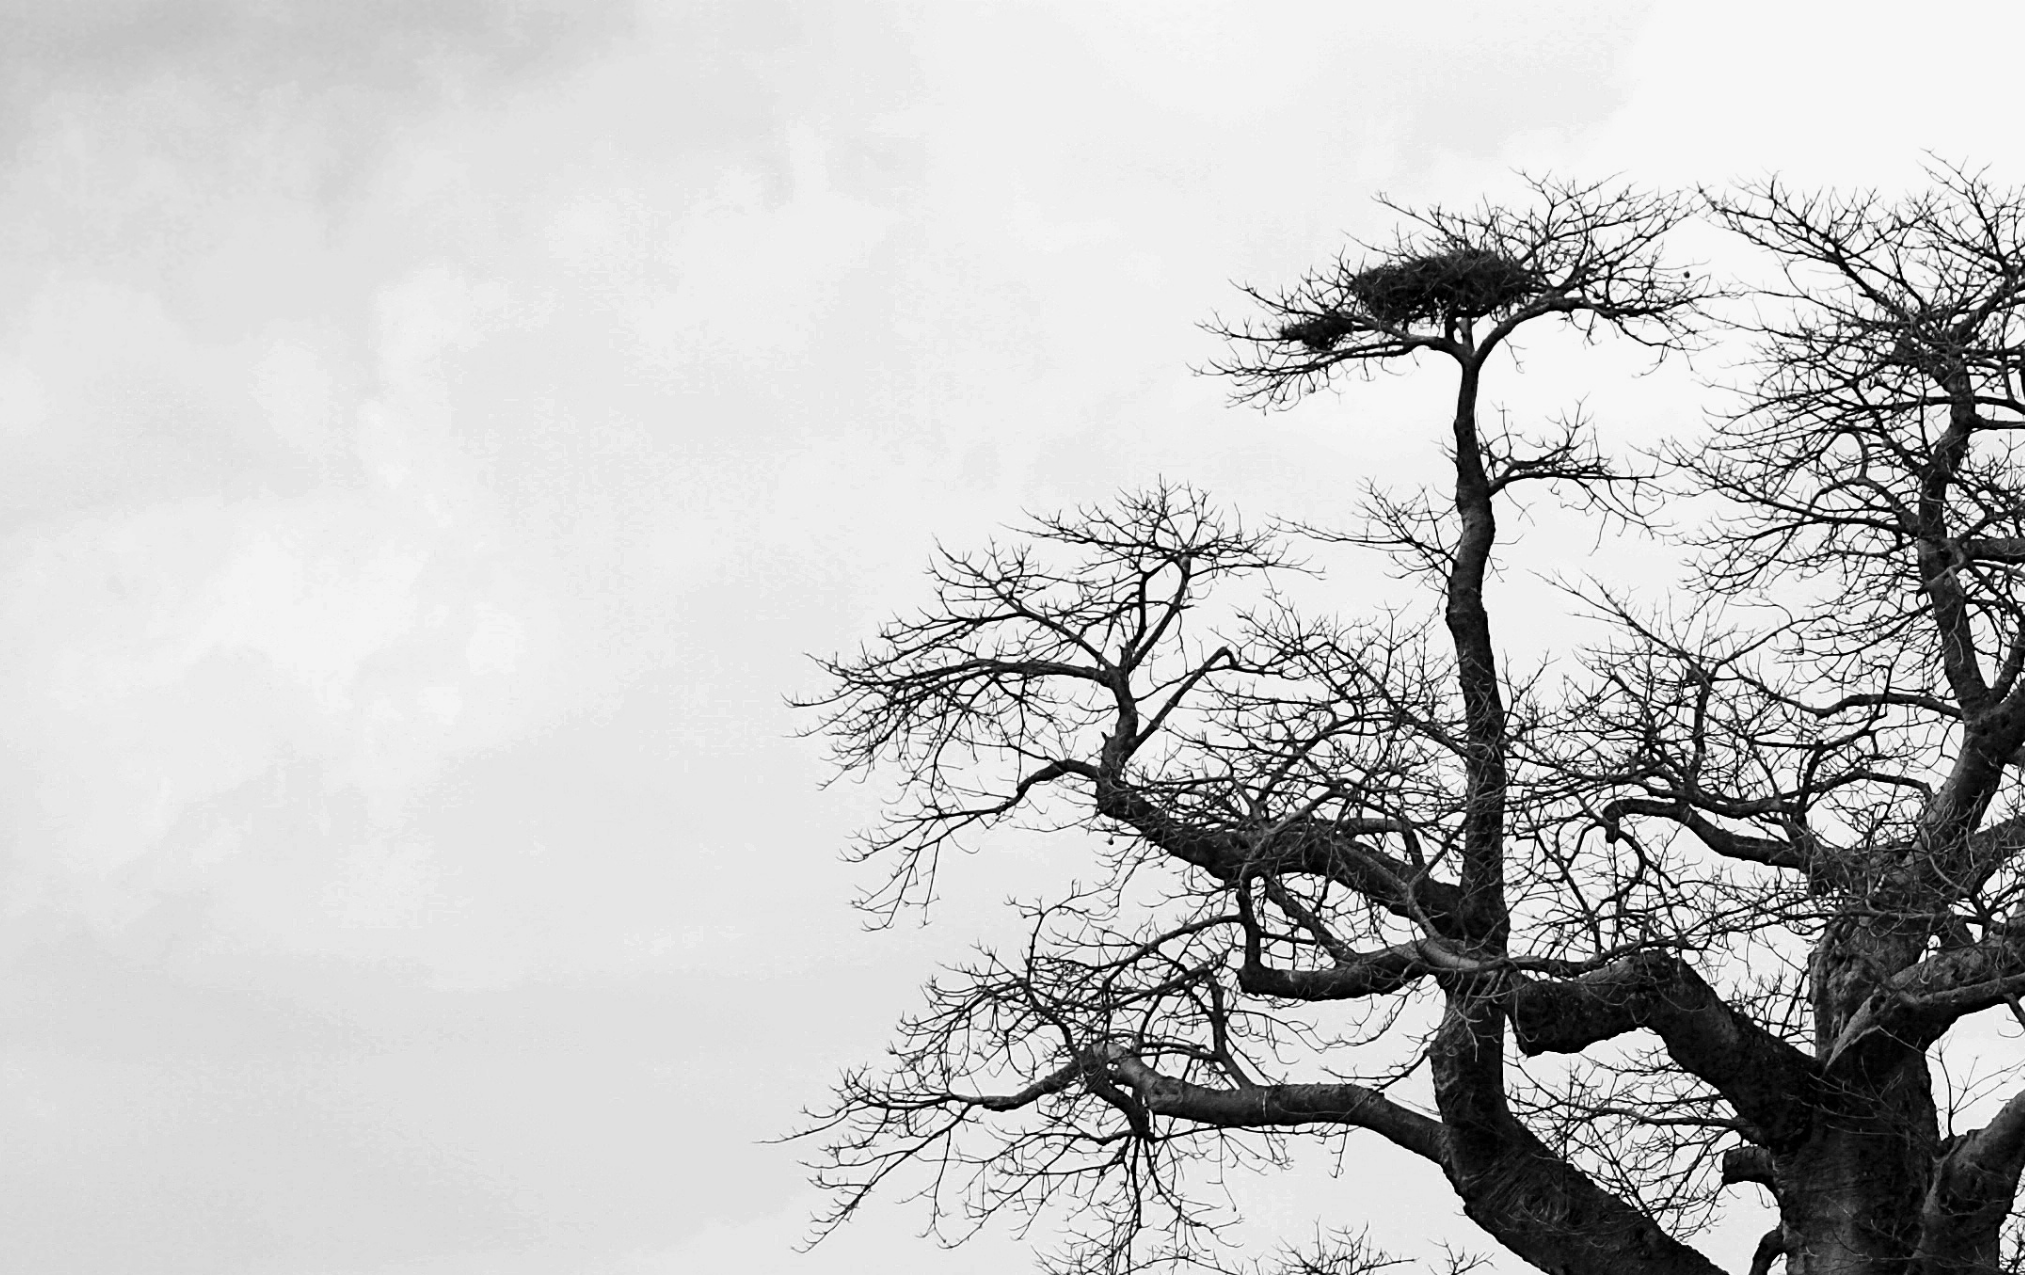
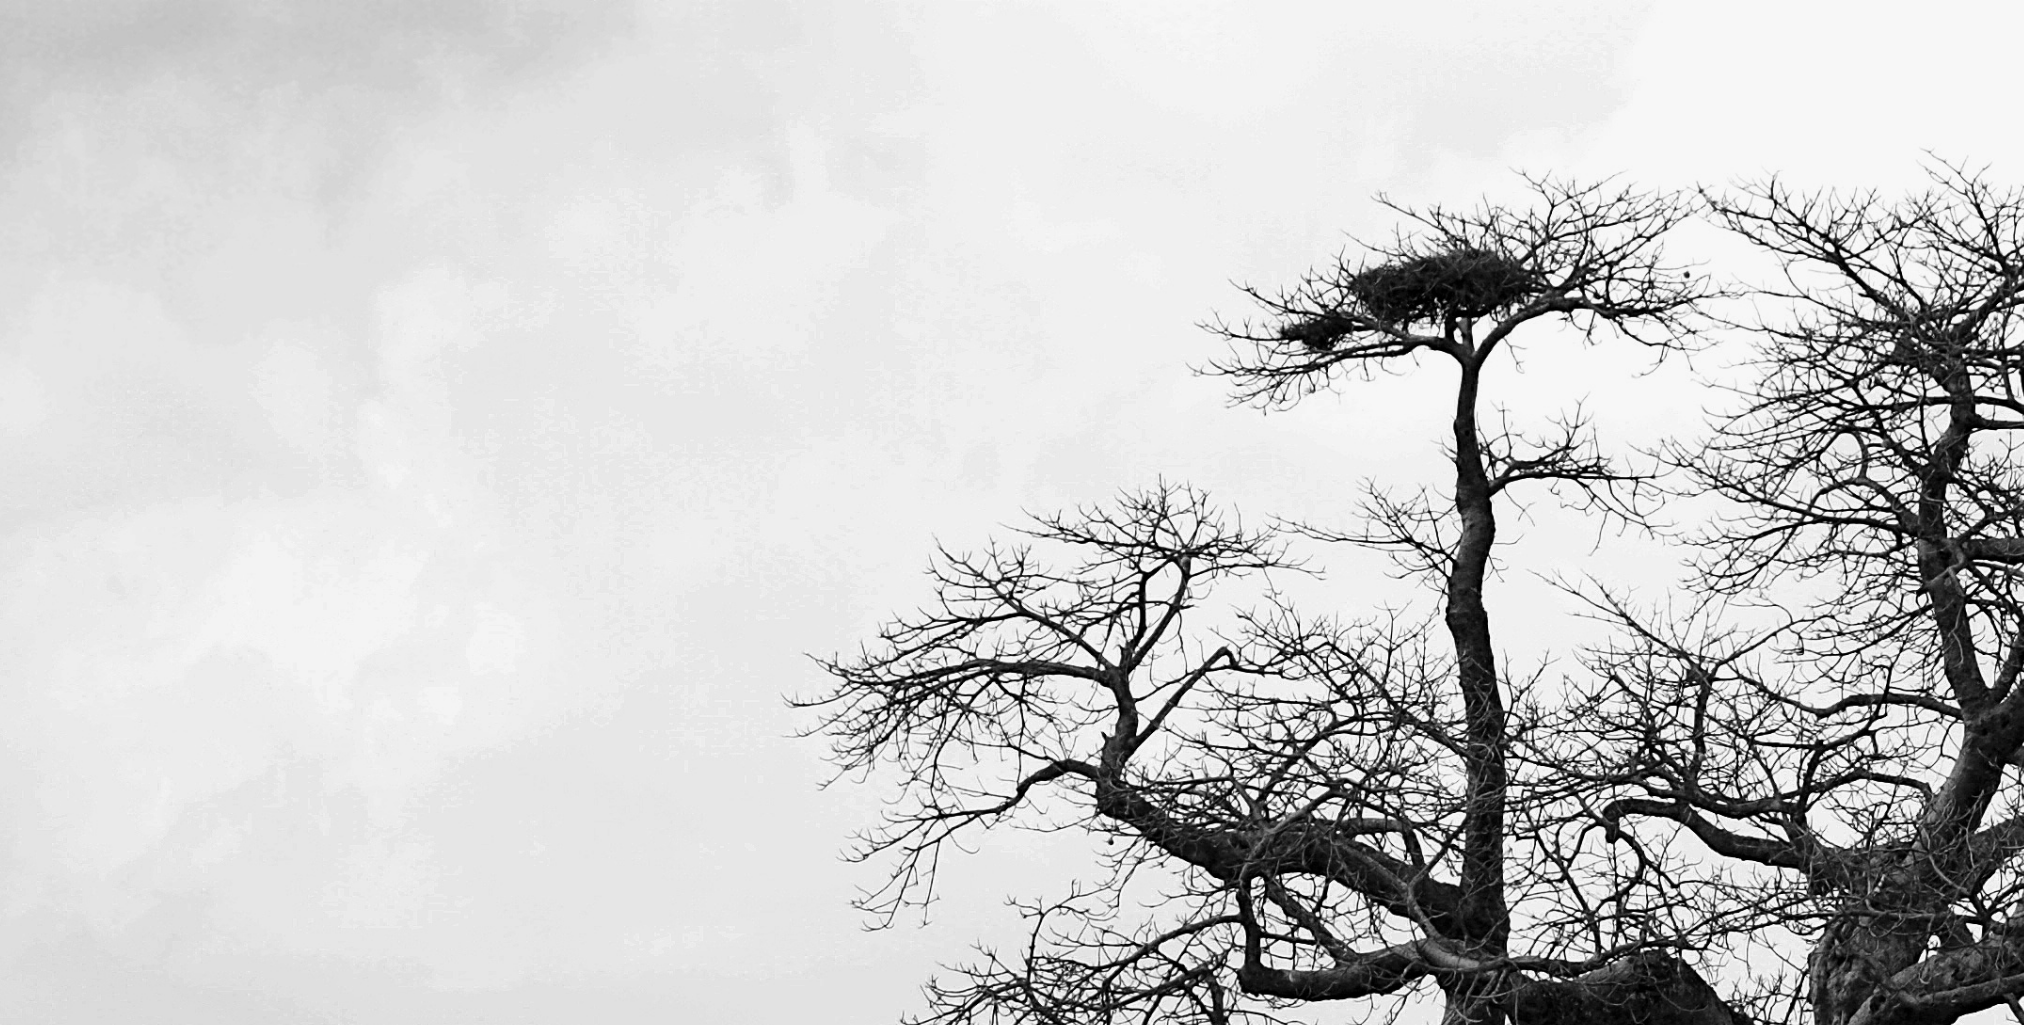
Final updates 1

Changed region(s): [[0.3735, 0.1249, 1.0, 1.0]]

diff --git a/src/pages/Cabinet.js b/src/pages/Cabinet.js
@@ -14,13 +14,13 @@ function Cabinet() {
       id: 0,
       urlImg: null,
       name: "Papa Socé Fall",
-      text: "Papa Socé FALL, associé fondateur, Président Directeur Général. Il est diplômé du Centre d’études des Techniques Financières d’ingénierie de l’université Aix Marseille 3 (Master 2 gestion de patrimoine). Cette formation a débouché sur une carrière bancaire de 10 ans en France où il a occupé des postes de Conseiller en patrimoine financier et de chargé d’affaires professionnelles. Professeur auprès instituts d’enseignements privés où il enseigne l’ingénierie patrimoniale, les techniques et pratiques bancaires et le marketing bancaire. Titulaire d’un certificat de formation professionnelle en formation immobilière à l’Institut des Professions Juridiques et Immobilières (IPJI) de Dakar, diplôme obtenu en 2021.",
+      text: "Papa Socé FALL, Président Directeur Général. Il est diplômé du Centre d’études des Techniques Financières d’ingénierie de l’université Aix Marseille 3 (Master 2 gestion de patrimoine). Cette formation a débouché sur une carrière bancaire de 10 ans en France où il a occupé des postes de Conseiller en patrimoine financier et de chargé d’affaires professionnelles. Professeur auprès instituts d’enseignements privés où il enseigne l’ingénierie patrimoniale, les techniques et pratiques bancaires et le marketing bancaire. Titulaire d’un certificat de formation professionnelle en formation immobilière à l’Institut des Professions Juridiques et Immobilières (IPJI) de Dakar, diplôme obtenu en 2021.",
     },
     {
       id: 1,
       urlImg: null,
       name: "Babacar Thiam",
-      text: "Babacar Thiam, associé, Directeur général. Il est spécialisé en fiscalité et audit. Il est titulaire d’un MBA en finance comptabilité de l’UCAO, d’un master 2 en Audit et Contrôle de gestion à l’ISM et d’un master 2 en fiscalité. Il a une forte expérience dans le domaine de la fiscalité, audit et contrôle de gestion et une parfaite connaissance de l’entreprise et a occupé des postes de responsable comptable, Treasury manager et analyste comptable et fiscal dans différentes sociétés de la place.",
+      text: "Babacar Thiam, consultant. Il est spécialisé en fiscalité et audit. Il est titulaire d’un MBA en finance comptabilité de l’UCAO, d’un master 2 en Audit et Contrôle de gestion à l’ISM et d’un master 2 en fiscalité. Il a une forte expérience dans le domaine de la fiscalité, audit et contrôle de gestion et une parfaite connaissance de l’entreprise et a occupé des postes de responsable comptable, Treasury manager et analyste comptable et fiscal dans différentes sociétés de la place.",
     },
   ];
   const consultantInfo = [
@@ -28,13 +28,13 @@ function Cabinet() {
       id: 0,
       urlImg: null,
       name: "Dr Pape Saër Gueye",
-      text: "Titulaire d’un Doctorat Unique en Droit Privé à l’Université Cheikh Anta DIOP de Dakar et ex chef de filière droit des affaires à l’Institut de Mangement de Dakar, Dr. GUEYE est consultant en droit privé et dispose d’une expérience pointue à la fois en droit matrimonial, en droit immobilier, en droit des assurances. Il intervient également dans tous les domaines du droit bancaire, social, civil et commercial.",
+      text: "Consultant, titulaire d’un Doctorat Unique en Droit Privé à l’Université Cheikh Anta DIOP de Dakar et ex chef de filière droit des affaires à l’Institut de Mangement de Dakar, Dr. GUEYE est consultant en droit privé et dispose d’une expérience pointue à la fois en droit matrimonial, en droit immobilier, en droit des assurances. Il intervient également dans tous les domaines du droit bancaire, social, civil et commercial.",
     },
     {
       id: 1,
       urlImg: null,
       name: "Cheikh Diallo",
-      text: "Expert comptable, formateur",
+      text: "Consultant, expert comptable, formateur",
     },
   ];
   return (
@@ -45,7 +45,6 @@ function Cabinet() {
       <div className="container row row-top">
         <Team team={teamInfo} />
       </div>
-      <h3 data-aos="zoom-in">Nous comptons parmi nos consultants:</h3>
       <div className="container row row-top">
         <Team team={consultantInfo} />
       </div>

diff --git a/src/pages/Espacesportif.js b/src/pages/Espacesportif.js
@@ -1,4 +1,4 @@
-import React, {useEffect} from "react";
+import React, { useEffect } from "react";
 import "./../styles/sport.css";
 import "./../styles/citation.css";
 import Headertemplate from "../components/Headertemplate";
@@ -14,57 +14,57 @@ import bolt from "./../assets/bolt.webp";
 import Aos from "aos";
 
 function Espacesportif() {
-    useEffect(() => {
-      Aos.init({ duration: 1500, once: true });
-    }, []);
+  useEffect(() => {
+    Aos.init({ duration: 1500, once: true });
+  }, []);
   const citations = [
     {
       id: 0,
       urlImg: floyd,
       citation: "« Pour être le meilleur, vous devez faire des heures supplémentaires »",
-      comment:"50 victoires-0 défaite et 6 fois champion du monde dans 5 catégories de poids différentes.",
+      comment: "50 victoires-0 défaite et 6 fois champion du monde dans 5 catégories de poids différentes.",
       author: "Floyd Mayweather",
     },
     {
       id: 1,
       urlImg: jordan,
       citation: "« J’ai toujours cru que si tu mets tout en œuvre pour réussir, les résultats viendront. » ",
-      comment:"6 fois champion NBA, 2 fois médaillé d’or olympique",
+      comment: "6 fois champion NBA, 2 fois médaillé d’or olympique",
       author: "M. Jordan",
     },
     {
       id: 2,
       urlImg: maradona,
       citation: "« Lorsque les gens réussissent, c’est grâce à un travail acharné. La chance n’a rien à voir avec le succès. »",
-      comment:"Vainqueur de la coupe du monde de 1986 et élu meilleur joueur de la compétition.",
+      comment: "Vainqueur de la coupe du monde de 1986 et élu meilleur joueur de la compétition.",
       author: "D. Maradona",
     },
     {
       id: 3,
       urlImg: bolt,
       citation: "« La compétition c’est la partie la plus facile. Tout le travail se fait dans les coulisses. C’est dans les coulisses qu’on se prépare pour la course qu’on veut gagner. » ",
-      comment:"Recordman du monde 100m, 200m et relais 4 fois 100mètres.",
+      comment: "Recordman du monde 100m, 200m et relais 4 fois 100mètres.",
       author: "U.Bolt",
     },
     {
       id: 4,
       urlImg: ali,
       citation: "« J’ai détesté chaque minute d’entrainement mais je me suis dit « N’abandonne pas, souffre et vit le reste de ta vie comme un champion » ",
-      comment:"",
+      comment: "",
       author: "Mohamed Ali",
     },
     {
       id: 5,
       urlImg: woods,
       citation: "« Quand vous avez un véritable but véritable dans la vie, travailler dur n’est pas une option, c’est une nécessité »",
-      comment:"",
+      comment: "",
       author: "T.Woods",
     },
     {
       id: 6,
       urlImg: siki,
       citation: "",
-      comment:"",
+      comment: "Premier african, champion du monde de boxe.",
       author: "Battling Siki",
     },
   ];
@@ -79,15 +79,17 @@ function Espacesportif() {
           sportifs de haut niveau est gagnée avant les 35 ans. Le sportif a
           besoin de se concentrer sur sa carrière et déléguer ses
           investissements en toute confiance. L’après carrière est longue et
-          mérite d’être préparée. Que vous soyez en début de carrière ou sportif
+          mérite d’être préparée.
+        </p>
+        <p data-aos="zoom-in">
+          Que vous soyez en début de carrière ou sportif
           confirmé, nous prenons en charge l’ensemble de vos investissements en
           vous conseillant et en mettant en avant notre expertise et notre
           mobilité. Vous êtes à tout moment informé de votre situation. Nous
           vous aidons aussi à préparer le plus tôt possible votre après carrière
           en échangeant avec vous sur vos souhaits et projets. Un accompagnement
           et des stratégies sur mesure vous aideront à vous épanouir et piloter
-          votre carrière sereinement. Mettre des photos de sports : football
-          tennis basketball lutte mma boxe.
+          votre carrière sereinement.
         </p>
         <h2 data-aos="zoom-in">MOTIVATION</h2>
         <p data-aos="zoom-in">

diff --git a/src/components/main/Main.js b/src/components/main/Main.js
@@ -19,8 +19,16 @@ function Main() {
       title: "Conseil et Gestion de patrimoine",
       urlImg: batiment,
       sousTitre: " ",
-      paragraphe:
-        "Optimisez votre patrimoine, votre épargne et vos investissements immobiliers grâce à nos conseils en stratégie de placements. Mossane Patrimoine est un des premiers cabinets de conseil en gestion de patrimoine au Sénégal. Mossane Patrimoine conseille et gère le patrimoine des salariés du public et du privé, des chefs d'entreprise, de sportifs professionnels, des retraités, des rentiers... Quel que soit votre âge, Mossane Patrimoine vous accompagne dans vos projets car le conseil en gestion de patrimoine est calqué sur 3 étapes fondamentales de la vie : la création, la gestion et la transmission.",
+      paragraphe: [
+        {
+          id: 0,
+          text: "Optimisez votre patrimoine, votre épargne et vos investissements immobiliers grâce à nos conseils en stratégie de placements. Mossane Patrimoine est un des premiers cabinets de conseil en gestion de patrimoine au Sénégal."
+        },
+        {
+          id: 1,
+          text: "Mossane Patrimoine conseille et gère le patrimoine des salariés du public et du privé, des chefs d'entreprise, de sportifs professionnels, des retraités, des rentiers... Quel que soit votre âge, Mossane Patrimoine vous accompagne dans vos projets car le conseil en gestion de patrimoine est calqué sur 3 étapes fondamentales de la vie : la création, la gestion et la transmission.",
+        },
+      ],
       btn: "Découvrir nos activités",
       redirection: "/prive",
       self: false,
@@ -30,8 +38,16 @@ function Main() {
       title: "Le mot du président:",
       urlImg: famille,
       sousTitre: "« Le client est le vrai chef de l’entreprise ».",
-      paragraphe:
-        "Optimisez votre patrimoine, votre épargne et vos investissements immobiliers grâce à nos conseils en stratégie de placements. Mossane Patrimoine est un des premiers cabinets de conseil en gestion de patrimoine au Sénégal. Mossane Patrimoine conseille et gère le patrimoine des salariés du public et du privé, des chefs d'entreprise, de sportifs professionnels, des retraités, des rentiers... Quel que soit votre âge, Mossane Patrimoine vous accompagne dans vos projets car le conseil en gestion de patrimoine est calqué sur 3 étapes fondamentales de la vie : la création, la gestion et la transmission.",
+      paragraphe: [
+        {
+          id: 0,
+          text: "Nous souhaitons être le partenaire de nos clients sur le long terme, en les accompagnant avec efficience dans la réalisation de leurs projets familiaux et professionnels (promotion immobilière, placements, gestion des successions, préparation à la retraite, transmission d'entreprises, choix du régime matrimonial, …)."
+        },
+        {
+          id: 1,
+          text: "Pour nos clients sportifs, une carrière se construit mais une après carrière se prépare.Grâce à notre mobilité nous prenons en charge vos investissements en vous permettant de vous tenir informé à tout moment de votre situation patrimoniale. Un contrat de confiance avec Mossane Patrimoine sera le gage d’une relation pérenne.",
+        },
+      ],      
       btn: "Nous contacter",
       redirection: "footer",
       self: true,

diff --git a/src/pages/Prive.js b/src/pages/Prive.js
@@ -7,6 +7,9 @@ import famille2 from "./../assets/famille2.webp";
 import etude from "./../assets/etude.webp";
 import retraite from "./../assets/retraite.webp";
 import heritage from "./../assets/heritage.webp";
+import patrimoine from "./../assets/prive/1.webp";
+import construction from "./../assets/prive/2.webp";
+import bourse from "./../assets/prive/3.webp";
 import Aos from "aos";
 
 function Prive() {
@@ -99,7 +102,10 @@ function Prive() {
           actuelles, il est indispensable d’être accompagné par un ingénieur
           patrimonial. Ce dernier, disposant des compétences et certifications
           nécessaires, vous conseillera pour assurer la sécurisation,
-          l’optimisation et la transmission de votre patrimoine. Sur la base
+          l’optimisation et la transmission de votre patrimoine.
+        </p>
+        <p>
+          Sur la base
           d’un audit et d’un bilan patrimonial, notre analyse globale nous
           permet de vous proposer la solution la plus adaptée à votre situation
           patrimoniale et répondant à vos objectifs et besoins. Nous collaborons
@@ -113,6 +119,7 @@ function Prive() {
             Pour la gestion de votre patrimoine immobilier, nous vous proposons
             les services suivants :{" "}
           </h4>
+          <img style={{padding: "15px"}} className="col-12 col-md-9" src={patrimoine} alt="patrimoine" />
           <div className="container row row-top">
             <List services={listService} />
           </div>
@@ -121,6 +128,7 @@ function Prive() {
           <h4 className="container" data-aos="zoom-in">
             Promotion immobilière :{" "}
           </h4>
+          <img style={{padding: "15px"}} className="col-12 col-md-9" src={construction} alt="patrimoine" />
           <div className="container row row-top">
             <List services={listImmobilière} />
           </div>
@@ -129,6 +137,7 @@ function Prive() {
           <h4 className="container" data-aos="zoom-in">
             Placement et gestion de portefeuille :{" "}
           </h4>
+          <img style={{padding: "15px"}} className="col-12 col-md-9" src={bourse} alt="patrimoine" />
           <div className="container row row-top">
             <List services={listPortefeuille} />
           </div>

diff --git a/src/pages/Professionnelle.js b/src/pages/Professionnelle.js
@@ -4,6 +4,8 @@ import "./../styles/prive.css";
 import "./../styles/pro.css";
 import Headertemplate from "../components/Headertemplate";
 import pro from "./../assets/pro.webp";
+import entreprise from "./../assets/pro/1.webp";
+import audit from "./../assets/pro/2.webp";
 import Aos from "aos";
 
 function Professionnelle() {
@@ -86,6 +88,7 @@ function Professionnelle() {
             >
               Accompagnement du chef d’entreprise :{" "}
             </h4>
+            <img style={{padding: "15px"}} className="col-12 col-md-9" src={entreprise} alt="patrimoine" />
             <p
               className="col-12 col-md-10 col-lg-9 col-xl-8 col-xxl-7"
               data-aos="zoom-in"
@@ -104,6 +107,7 @@ function Professionnelle() {
             <h4 className="container" data-aos="zoom-in">
               Accompagnement dans la transmission du patrimoine professionnel :{" "}
             </h4>
+            <img style={{padding: "15px"}} className="col-12 col-md-9" src={audit} alt="patrimoine" />
             <div className="container row row-top">
               <List services={listPro} />
             </div>

diff --git a/src/components/List.js b/src/components/List.js
@@ -1,10 +1,10 @@
 import React from "react";
-import serviceImg from "./../assets/service.png";
+import serviceImg from "./../assets/logo_bg_removed.png";
 
 function List({services}) {
   return services.map((service) => (
     <div key={service.id} className="service col-5 col-sm-4 col-md-3" data-aos="zoom-in">
-      <img src={serviceImg} />
+      <img width="50" src={serviceImg} />
       <p>{service.text}</p>
     </div>
   ));

diff --git a/src/components/main/Illustration.js b/src/components/main/Illustration.js
@@ -33,7 +33,8 @@ function Illustration({ donnees }) {
           <h3> {donnee.title} </h3>
           <h4> {donnee.sousTitre} </h4>
         </hgroup>
-        <p className="illustration-p">{donnee.paragraphe}</p>
+        {donnee.paragraphe.map((p) => (<p className="illustration-p">{p.text}</p>))}
+        
       </div>
     </div>
   ));

diff --git a/src/components/Navbar.js b/src/components/Navbar.js
@@ -11,7 +11,7 @@ function Navbar() {
 
   const [navbar, setNavbar] = useState(false);
   const showNavbar = () => {
-    if (window.scrollY > 200) {
+    if (window.scrollY > 1) {
       setNavbar(true);
     } else {
       setNavbar(false);

diff --git a/src/styles/Header.css b/src/styles/Header.css
@@ -4,7 +4,7 @@
   height: 100vh;
   z-index: 500;
   background-image: url(./../assets/background.webp);
-  background-position: left;
+  background-position: left top;
   background-repeat: no-repeat;
   background-size: cover;
 }

diff --git a/src/styles/illustration.css b/src/styles/illustration.css
@@ -58,3 +58,7 @@
 .mossane-illustration>*>a:hover>.mossane-btn-anim{
     transform: translate(5px, -50%);
 }
+.illustration-p:last-child{
+    text-align: left;
+    padding-bottom: 25px;
+}
